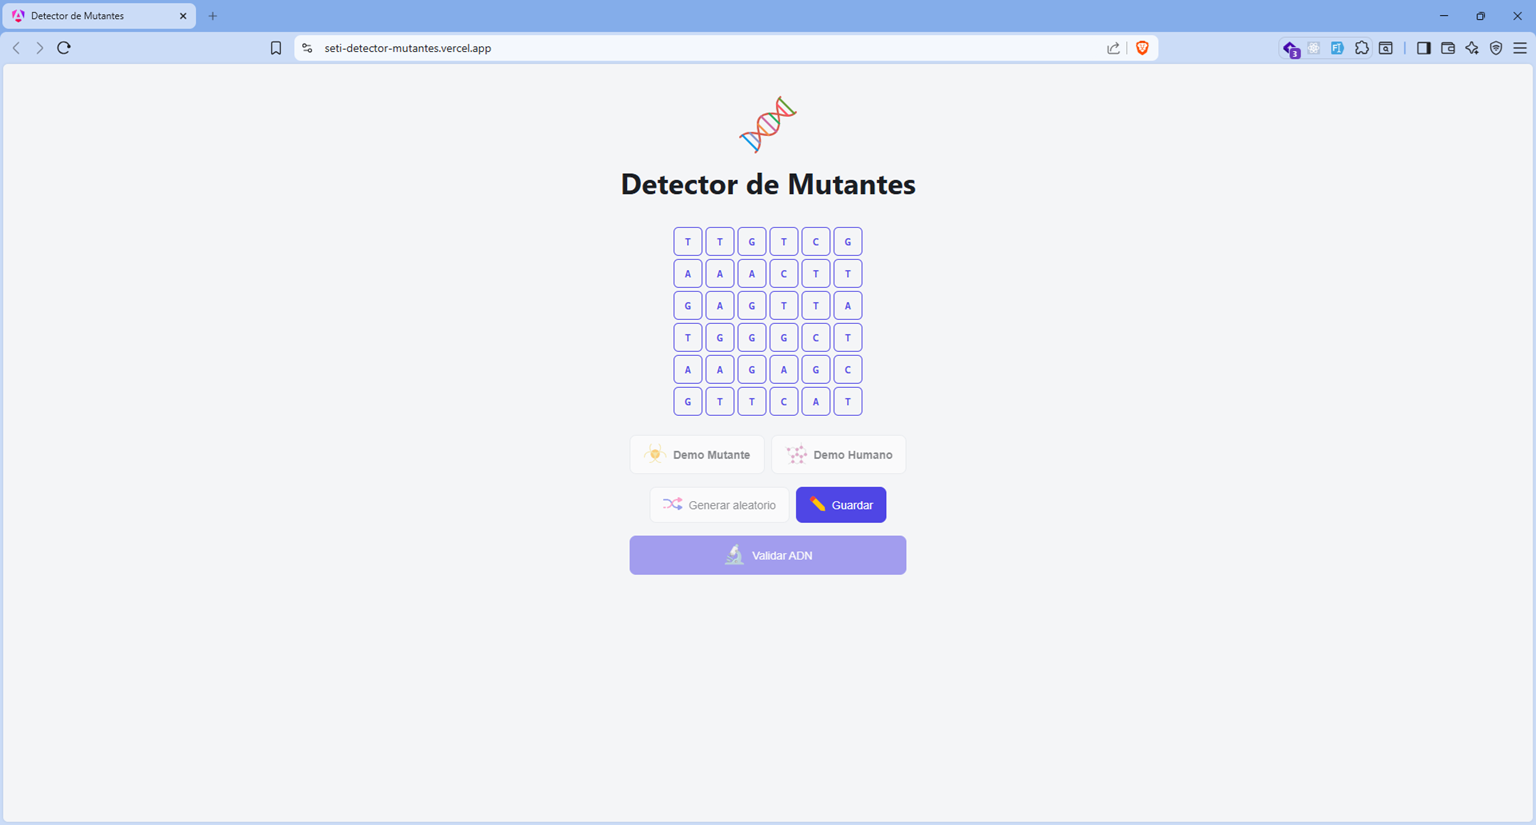
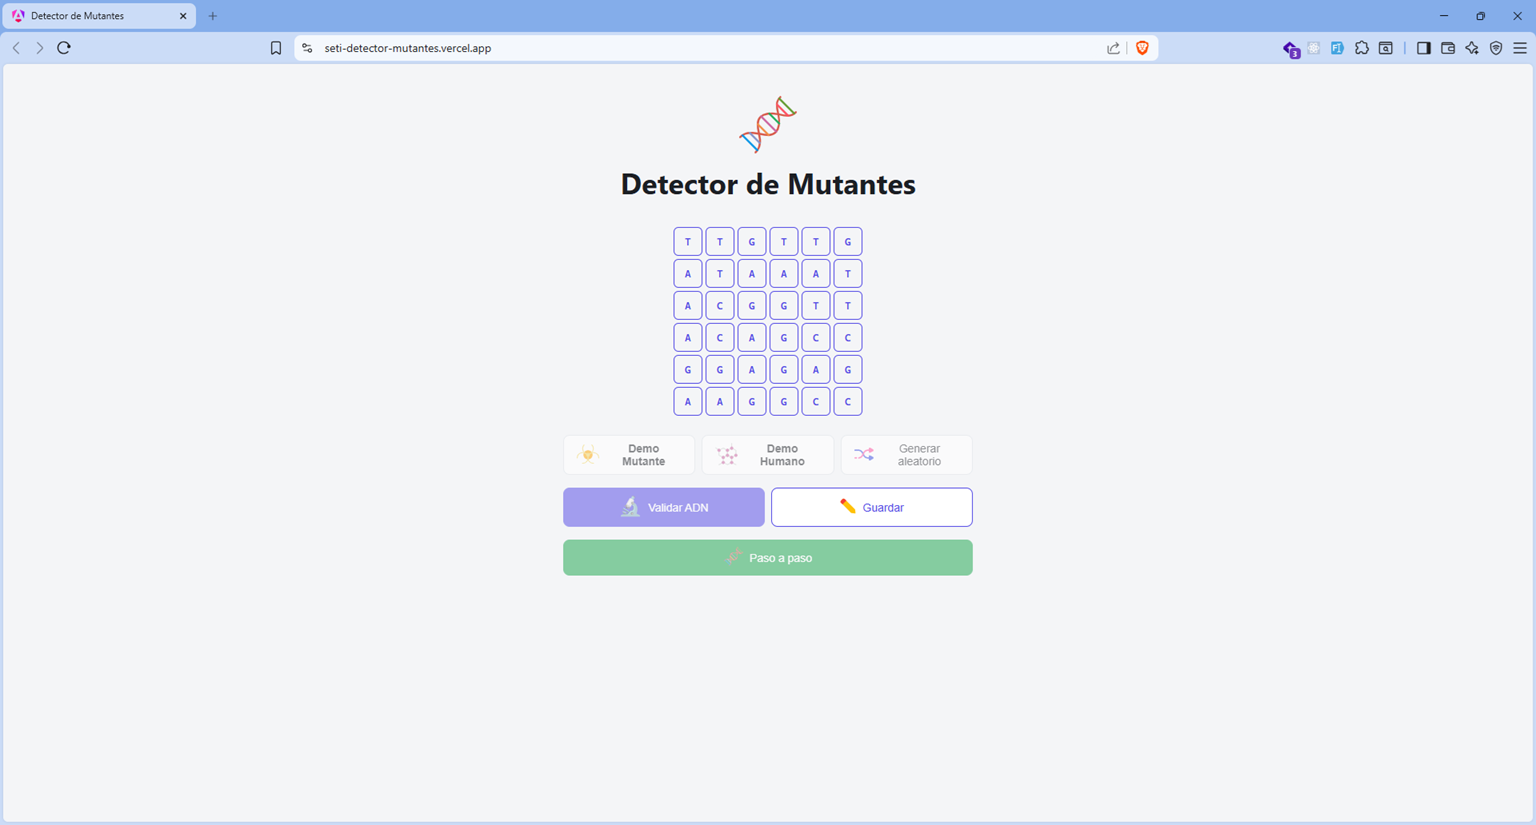
docs: update README with step-by-step mode documentation and new screenshots

Changed region(s): [[0.3438, 0.5455, 0.6562, 0.697]]

diff --git a/README.md b/README.md
@@ -1,17 +1,12 @@
 # Detector de Mutantes
 
 Este proyecto implementa la solución al clásico reto de detección de mutantes mediante ADN.
+
 El algoritmo recibe una matriz NxN compuesta por las bases nitrogenadas **A**, **T**, **C** y **G**, y determina si el ADN pertenece a un mutante buscando secuencias repetidas de cuatro letras consecutivas.
 
-Sobre esa solución se construyó una aplicación web interactiva en Angular que permite visualizar y probar el algoritmo.
+Sobre esa solución se construyó una aplicación web interactiva en Angular que permite visualizar, comprender y probar el algoritmo de forma interactiva.
 
 **Demo en vivo:** [https://seti-detector-mutantes.vercel.app/](https://seti-detector-mutantes.vercel.app/)
-
----
-
-## Objetivo
-
-El objetivo del proyecto no es únicamente detectar mutantes, sino ofrecer una interfaz visual que permita comprender, probar y validar el algoritmo de forma interactiva.
 
 ---
 
@@ -49,7 +44,7 @@ Abre tu navegador en [http://localhost:4200](http://localhost:4200). Los cambios
 
 ## Qué hace el proyecto
 
-El ADN se representa como una matriz cuadrada (NxN) formada por las bases nitrogenadas: **A** (Adenina), **T** (Timina), **C** (Citosina) y **G** (Guanina). La aplicación recorre esa matriz buscando secuencias de **4 letras iguales consecutivas** en cuatro direcciones: horizontal, vertical y las dos diagonales.
+El ADN se representa como una matriz cuadrada (NxN) formada por las bases nitrogenadas: **A** (Adenina), **T** (Timina), **C** (Citosina) y **G** (Guanina). El algoritmo recorre esa matriz buscando secuencias de **4 letras iguales consecutivas** en cuatro direcciones: horizontal, vertical y las dos diagonales.
 
 Si encuentra **dos o más** de esas secuencias, el ADN pertenece a un **mutante**. Si encuentra una sola o ninguna, es de un **humano**.
 
@@ -81,6 +76,13 @@ Cuando encuentra cuatro letras consecutivas iguales incrementa un contador. En c
 
 Antes de evaluar las secuencias, valida que la matriz sea cuadrada y que solo contenga las bases `A`, `T`, `C` y `G`.
 
+Este mismo recorrido tiene dos formas de ejecutarse desde `DNAService`:
+
+- `isMutant(dna)`: devuelve únicamente el resultado (`isMutant`, `hasError`, `errorMessage`). Es la validación instantánea que usa el botón **Validar ADN**.
+- `scan(dna)`: devuelve, además del resultado, cada comparación hecha en el camino (`DNAStep[]`: dirección, las 4 celdas revisadas y si coincidieron). Es lo que alimenta el modo **Paso a paso** para animar el recorrido.
+
+Un algoritmo típico solo responde `true` o `false`. `scan()` lo convierte en un algoritmo observable: además del resultado, expone exactamente qué comparó, en qué orden y por qué llegó a esa conclusión.
+
 ## Complejidad
 
 - **Tiempo:** O(N²)
@@ -90,18 +92,40 @@ Cada posición de la matriz se evalúa como posible inicio de una secuencia en c
 
 ---
 
-## Cómo editar el ADN
+## Funcionalidades
+
+### Editar ADN
 
 La aplicación tiene dos formas de cargar ADN:
 
 - **Demo Mutante / Demo Humano:** cargan ejemplos predefinidos para ver el resultado al instante.
-- **Generar aleatorio:** crea una cuadrada al azar del mismo tamaño que la actual.
+- **Generar aleatorio:** genera una matriz aleatoria del mismo tamaño que la actual.
 
 Para editar manualmente:
 
 1. Haz clic en **Editar ADN**. La grilla cambia a modo edición con bordes resaltados.
 2. Escribe directamente en cada celda. Solo se permiten las letras **A**, **T**, **C** y **G**. Si escribes otra cosa, la celda se borra y aparece un aviso.
 3. Cuando termines, haz clic en **Guardar**. La aplicación validará automáticamente el ADN que acabas de editar.
+
+La validación de cada celda ocurre en tiempo real: antes de que el resultado se muestre, el código ya verificó que la matriz sea cuadrada y que solo tenga letras válidas, así el usuario se entera de inmediato si algo falla.
+
+### Validación instantánea
+
+El botón **Validar ADN** ejecuta el algoritmo sobre la matriz actual y muestra el resultado de inmediato: mutante o humano, con la secuencia encontrada resaltada en la grilla (verde si es humano, rojo si confirma que es mutante) o el mensaje de error si el ADN no es válido.
+
+### Paso a paso
+
+Además de validar de forma instantánea, la aplicación puede animar el recorrido del algoritmo para ver exactamente qué está comparando en cada momento.
+
+Al hacer clic en **Paso a paso**, la grilla reproduce automáticamente cada comparación (cada 700ms), resaltando en azul las 4 casillas evaluadas en ese instante; cuando una comparación coincide, esas casillas quedan sombreadas de forma permanente (verde si el resultado final es humano, rojo si confirma el mutante). El recorrido se detiene solo al encontrar la segunda secuencia o al terminar de revisar toda la matriz.
+
+Mientras el modo está activo, se puede pausar/reanudar la reproducción o avanzar paso a paso manualmente en pausa, y el botón principal cambia a **Cerrar paso a paso** (en rojo) para salir en cualquier momento; el resto de los botones quedan bloqueados hasta entonces.
+
+### Persistencia
+
+Lo que edites o cargues se guarda automáticamente en el navegador. Si cierras la pestaña y la vuelves a abrir, el ADN que tenías sigue ahí. Esto funciona con la memoria del navegador, así que si borras los datos del sitio, la grilla vuelve al ejemplo por defecto.
+
+Si tienes dos pestañas abiertas al mismo tiempo, los cambios en una se reflejan en la otra automáticamente.
 
 ---
 
@@ -115,32 +139,29 @@ Para editar manualmente:
 | ------------------------------------------------------------- | --------------------------------------------------------------- |
 | ![Validación humano](./public/capturas/validacion_humano.png) | ![Validación mutante](./public/capturas/validacion_mutante.png) |
 
-| Resultado humano                                         | Resultado mutante                                          |
-| -------------------------------------------------------- | ---------------------------------------------------------- |
-| ![Resultado humano](./public/capturas/humano_result.png) | ![Resultado mutante](./public/capturas/mutante_result.png) |
+| Paso a paso en curso                                                | Paso a paso pausado                                                | Paso a paso: Siguiente                                                  |
+| --------------------------------------------------------------------- | ------------------------------------------------------------------- | -------------------------------------------------------------------- |
+| ![Paso a paso en curso](./public/capturas/paso_a_paso_curso.png) | ![Paso a paso pausado](./public/capturas/paso_a_paso_pausado.png) | ![Paso a paso siguiente](./public/capturas/paso_a_paso_siguiente.png) |
+
+| Paso a paso: resultado humano                                        | Paso a paso: resultado mutante                                         |
+| ----------------------------------------------------------------------- | -------------------------------------------------------------------- |
+| ![Paso a paso resultado humano](./public/capturas/paso_a_paso_humano.png) | ![Paso a paso resultado mutante](./public/capturas/paso_a_paso_mutante.png) |
 
 ---
 
-## Persistencia
-
-Lo que edites o cargues se guarda automáticamente en el navegador. Si cierras la pestaña y la vuelves a abrir, el ADN que tenías sigue ahí. Esto funciona con la memoria del navegador, así que si borras los datos del sitio, la grilla vuelve al ejemplo por defecto.
-
-Si tienes dos pestañas abiertas al mismo tiempo, los cambios en una se reflejan en la otra automáticamente.
-
----
-
-## Cómo funciona el código
+## Arquitectura
 
 El proyecto está hecho con **Angular 22** y está organizado en componentes pequeños que cada uno hace una cosa:
 
-- **Board** (`board/`): es el coordinador. Decide qué se muestra, cuándo validar y qué hacer con los resultados.
-- **Grid** (`grid/`): dibuja la matriz de ADN y permite editar las celdas cuando estás en modo edición.
-- **Buttons** (`buttons/`): muestra los botones de acción (cargar demo, generar aleatorio, editar, validar).
+- **Board** (`board/`): es el coordinador. Decide qué se muestra, cuándo validar, qué hacer con los resultados y orquesta la animación del modo paso a paso (reproducir, pausar, avanzar).
+- **Grid** (`grid/`): dibuja la matriz de ADN, permite editar las celdas en modo edición y resalta las celdas que Board le indique (comparación actual o secuencia encontrada).
+- **Buttons** (`buttons/`): muestra los botones de acción (cargar demo, generar aleatorio, editar, validar, paso a paso, pausar/reanudar, siguiente).
 - **Results** (`results/`): muestra el resultado de la validación con un icono que indica si es mutante o humano.
-- **DNAService** (`core/services/`): contiene la lógica que decide si un ADN es mutante o no. Recorre la matriz, busca secuencias de cuatro letras iguales en las cuatro direcciones y cuenta cuántas encuentra.
+- **DNAService** (`core/services/`): contiene el algoritmo de detección. Expone `isMutant()` (resultado directo) y `scan()` (resultado + cada comparación hecha, para animar).
+- **Modelos** (`core/models/`): `dna-result.model.ts` define el resultado de `isMutant()`; `dna-step.model.ts` define cada paso (`DNAStep`) y el resultado de `scan()`.
 
 ```text
-App -> Board(Grid, Buttons, Results) -> DNAService
+App -> Board(Grid, Buttons, Results) -> DNAService(isMutant(), scan())
 ```
 
 ---
@@ -151,11 +172,11 @@ App -> Board(Grid, Buttons, Results) -> DNAService
 - Toda la lógica de negocio vive en el servicio; los componentes únicamente muestran información y emiten eventos.
 - El recorrido termina en cuanto se encuentran dos secuencias, evitando trabajo innecesario.
 - La edición se realiza sobre una copia de la matriz hasta que el usuario guarda los cambios, para no mutar el estado validado a mitad de la edición.
+- El modo paso a paso reutiliza el mismo `scan()` del servicio, así que la animación y la validación instantánea siempre muestran el mismo resultado.
+- Mientras el paso a paso está activo, el resto de las acciones (demos, aleatorio, validar, editar) se deshabilitan para evitar cambiar el ADN a mitad de una animación en curso.
 
 ---
 
 ## Complejidad cognitiva
 
 Cada componente y cada método tienen una única responsabilidad (ver [Decisiones de diseño](#decisiones-de-diseño)), lo que mantiene el código fácil de leer, depurar y modificar sin efectos secundarios inesperados.
-
-La validación de cada celda al editar ocurre en tiempo real: antes de que el resultado se muestre, el código ya verificó que la matriz sea cuadrada y que solo tenga letras válidas, así el usuario se entera de inmediato si algo falla.
